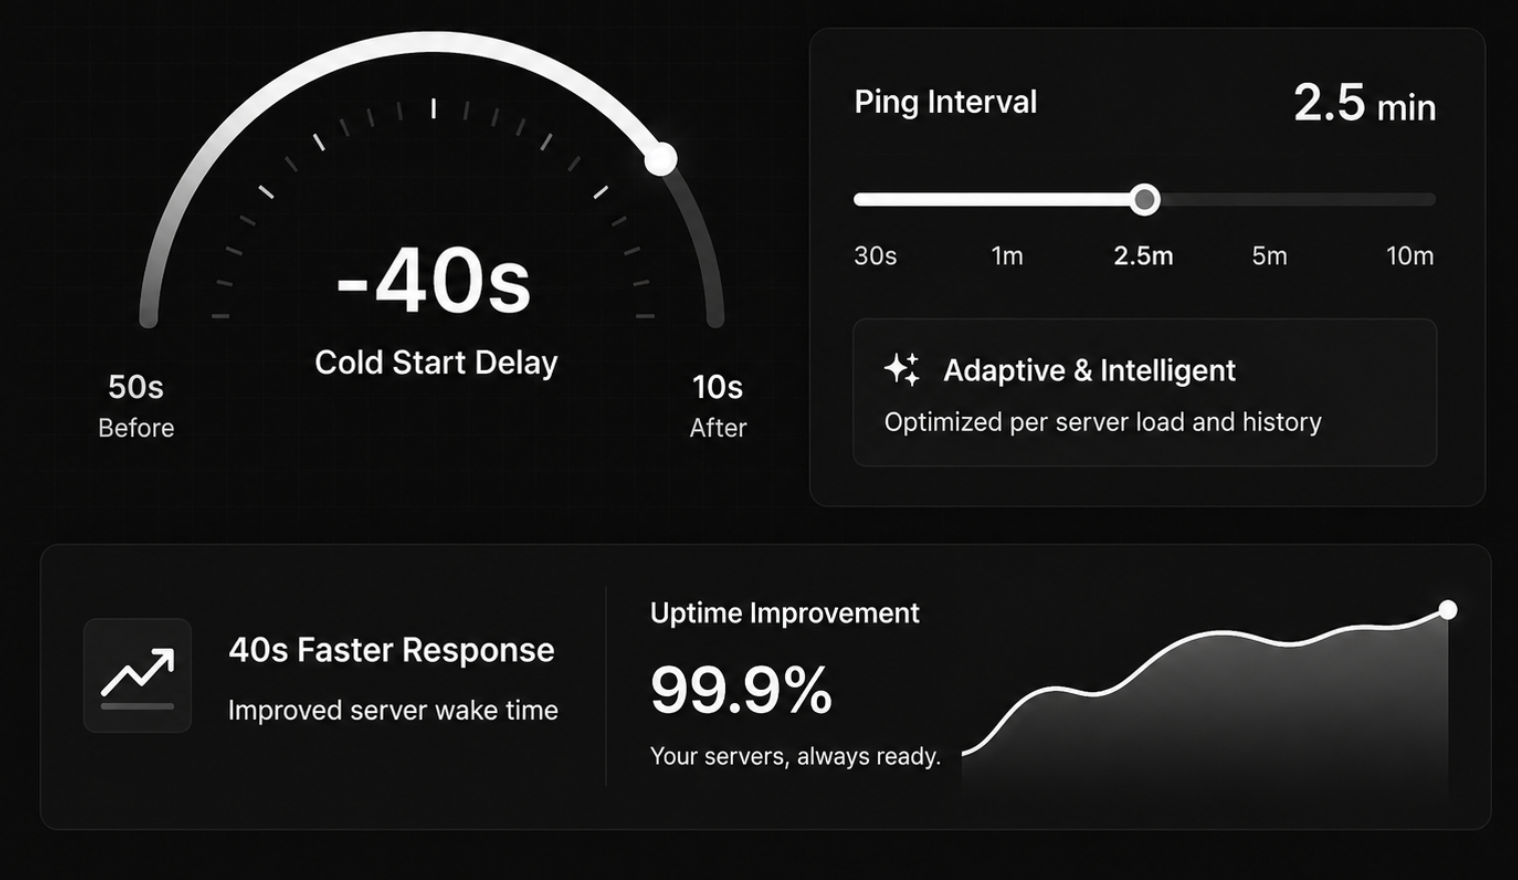
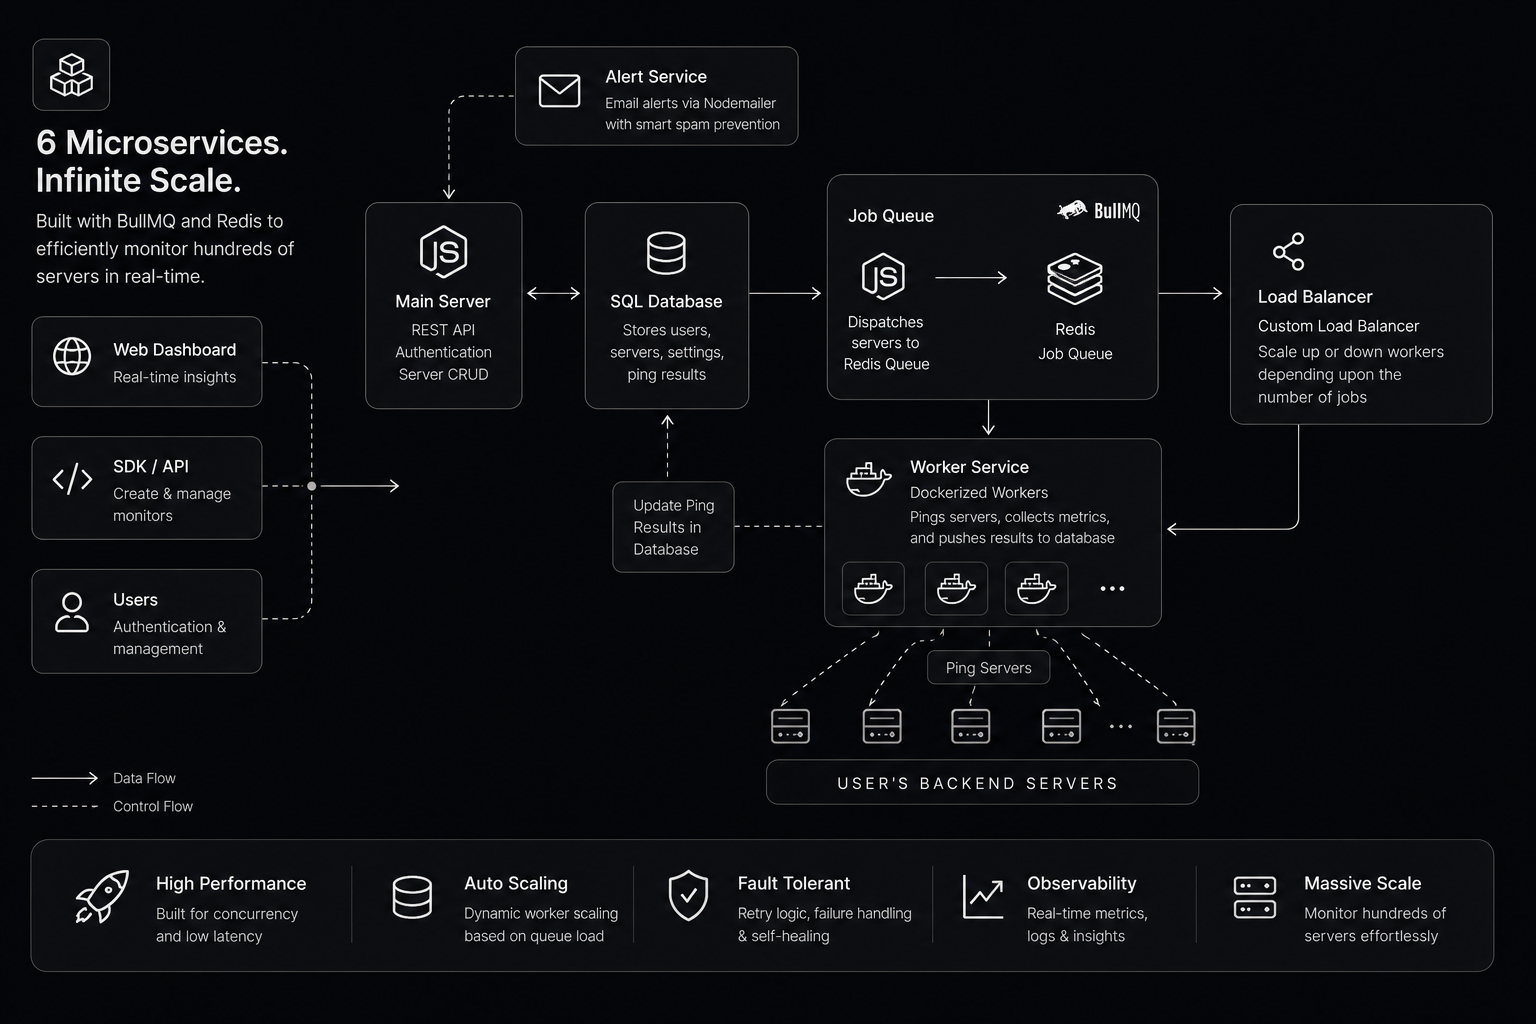
execution steps done

diff --git a/client/src/components/Home/StepsHero.tsx b/client/src/components/Home/StepsHero.tsx
@@ -1,19 +1,30 @@
 import React from "react";
 
 interface StepProps {
-  number: number;
+  number: string;
   title: string;
   description: string;
 }
 
-const Step: React.FC<StepProps> = ({ number, title, description }) => {
+const StepItem: React.FC<StepProps> = ({ number, title, description }) => {
   return (
-    <div className="flex flex-col items-center text-center">
-      <div className="bg-zinc-800 w-16 h-16 rounded-md flex items-center justify-center mb-6">
-        <span className="text-white text-2xl font-semibold">{number}</span>
+    <div className="group py-12 md:py-14 px-6 -mx-6 flex flex-col md:flex-row gap-6 md:gap-12 justify-between items-start hover:bg-white/[0.015] transition-all duration-300 cursor-pointer">
+      {/* Left side: Big fat number & Step Heading */}
+      <div className="w-full md:w-[45%] flex gap-6 md:gap-8 items-center transform group-hover:translate-x-2 transition-transform duration-300">
+        <span className="font-sans text-5xl md:text-6xl font-black text-white/10 transition-colors duration-300 select-none shrink-0 leading-none">
+          {number}
+        </span>
+        <h3 className="text-2xl md:text-3xl font-extrabold text-white tracking-tight leading-tight">
+          {title}
+        </h3>
       </div>
-      <h3 className="text-white text-xl font-medium mb-2">{title}</h3>
-      <p className="text-white text-md">{description}</p>
+
+      {/* Right side: Description */}
+      <div className="flex-1">
+        <p className="text-gray-400 group-hover:text-gray-200 text-sm md:text-base leading-relaxed font-normal max-w-xl transition-colors duration-300 pt-1">
+          {description}
+        </p>
+      </div>
     </div>
   );
 };
@@ -21,47 +32,51 @@ const Step: React.FC<StepProps> = ({ number, title, description }) => {
 const StepsHero: React.FC = () => {
   const steps = [
     {
-      number: 1,
-      title: "Login to your account",
-      description: "and get started.",
+      number: "1",
+      title: "Register service endpoints",
+      description: "Input your Render, Railway, Fly.io, or custom app backend URLs directly into your workspace. No code integrations or package dependency installs are needed.",
     },
     {
-      number: 2,
-      title: "Code Snippet",
-      description: "Past Code Snippet In Your Code.",
+      number: "2",
+      title: "Configure warmup schedules",
+      description: "Select target ping check intervals that match your specific host's inactivity timeout thresholds to prevent backend container sleep cycles.",
     },
     {
-      number: 3,
-      title: "Add your server",
-      description: "to the dashboard.",
-    },
-    {
-      number: 4,
-      title: "Monitor your server",
-      description: "and get notified when it goes down.",
+      number: "3",
+      title: "Continuous diagnostic checks",
+      description: "Heimdall starts pings immediately, keeping track of latency graphs and firing off automated SMTP email alerts if a monitored instance goes offline.",
     },
   ];
 
   return (
-    <div className="w-full bg-bg-dark py-16">
-      <div className="max-w-7xl mx-auto px-4">
-        <div className="relative">
-          {/* Horizontal connector line */}
-          <div className="hidden md:block absolute top-8 left-0 right-0 h-[1px] bg-zinc-800 z-0" />
+    <section className="w-full py-24 bg-[#080b11] text-white relative border-t border-white/[0.02]">
+      {/* Background radial glow */}
+      <div className="absolute top-1/2 left-1/2 -translate-x-1/2 -translate-y-1/2 w-[400px] h-[400px] bg-indigo-500/5 rounded-full blur-[100px] pointer-events-none" />
 
-          <div className="grid grid-cols-1 md:grid-cols-4 gap-8 relative z-10">
-            {steps.map((step) => (
-              <Step
-                key={step.number}
-                number={step.number}
-                title={step.title}
-                description={step.description}
-              />
-            ))}
-          </div>
+      <div className="max-w-6xl mx-auto px-6 relative z-10 text-center">
+        {/* Section Heading */}
+        <div className="mb-10 space-y-4">
+          <h2 className="text-3xl md:text-5xl font-extrabold tracking-tight text-white">
+            Simple setup, zero friction
+          </h2>
+          <p className="font-Inter text-[16px] mt-6 text-white/70 font-light leading-relaxed">
+            Configure free-tier endpoints in minutes to eliminate cold starts immediately.
+          </p>
+        </div>
+
+        {/* Steps List with horizontal divider lines */}
+        <div className="divide-y divide-white/[0.06] border-t border-b border-white/[0.06]">
+          {steps.map((step) => (
+            <StepItem
+              key={step.number}
+              number={step.number}
+              title={step.title}
+              description={step.description}
+            />
+          ))}
         </div>
       </div>
-    </div>
+    </section>
   );
 };
 

diff --git a/client/src/components/Home/LogoTicker.tsx b/client/src/components/Home/LogoTicker.tsx
@@ -127,7 +127,7 @@ const logoList: LogoItem[] = [
 
 const LogoTicker: React.FC = () => {
   return (
-    <div className="w-full py-10 bg-[#080b11]/20 border-y border-white/[0.02] relative">
+    <div className="w-full py-24 bg-[#080b11]/20 border-y border-white/[0.02] relative">
       <div className="max-w-5xl mx-auto px-6 select-none text-center">
         <p className="text-[18px] md:text-md font-bold tracking-[0.15em] uppercase text-white/80 mb-8">
           Keeps your servers active across leading cloud platforms